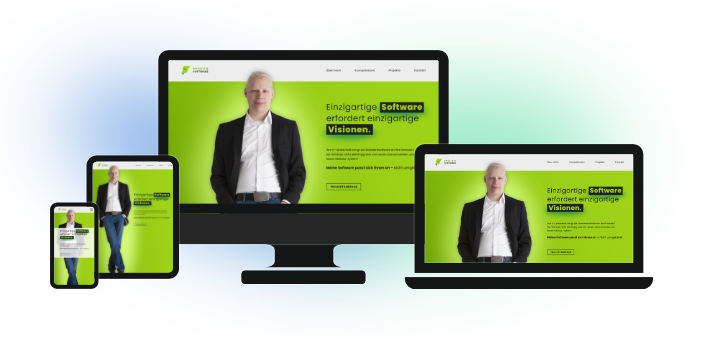
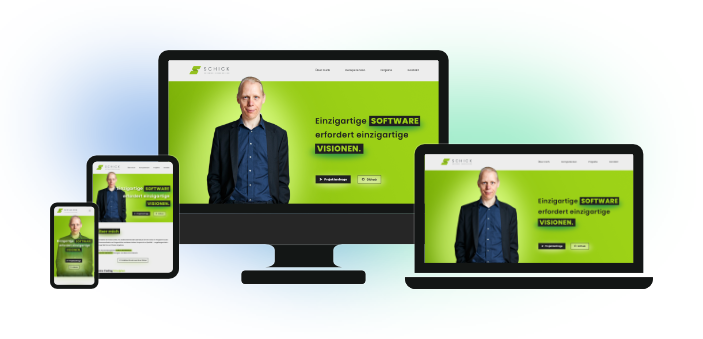
added recent project

diff --git a/projekt-neuborkia/src/components/projects/SchickSoftware.vue b/projekt-neuborkia/src/components/projects/SchickSoftware.vue
@@ -23,12 +23,12 @@ export default {
                  :headline="'Redesign der Homepage'"
                  :subHeadline="'Florian Schick Softwareentwicklung'"
                  :abstract="'Florian Schick ist Berater und Softwareentwickler mit vielen Jahren Erfahrung in verschiedenen Projekten. Er unterstützt seine Kunden hierbei nicht nur bei der Umsetzung spannender neuer Software-Ideen, sondern hilft auch dabei, bestehende Herausforderungen erfolgreich zu meistern. '"
-                 :timespan="'3 Monate'"
+                 :timespan="'4 Monate'"
                  :year="'2023'"
                  :tags="tags"
                  :linkTarget="'https://www.schick-software.de/'" />
 
-  <Masonry :projectName="projectName" :imageCount="7" />
+  <Masonry :projectName="projectName" :imageCount="4" />
 
   <RouterLink
     tag="button"
